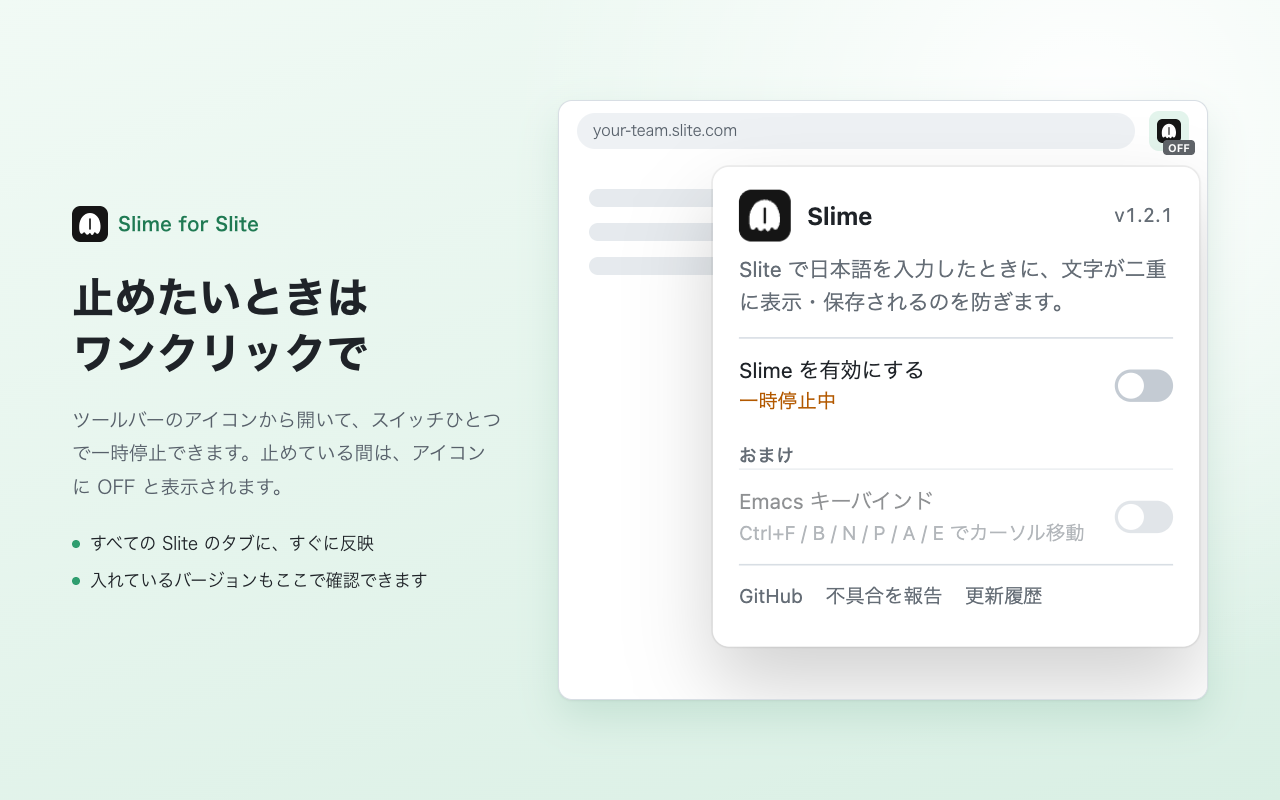
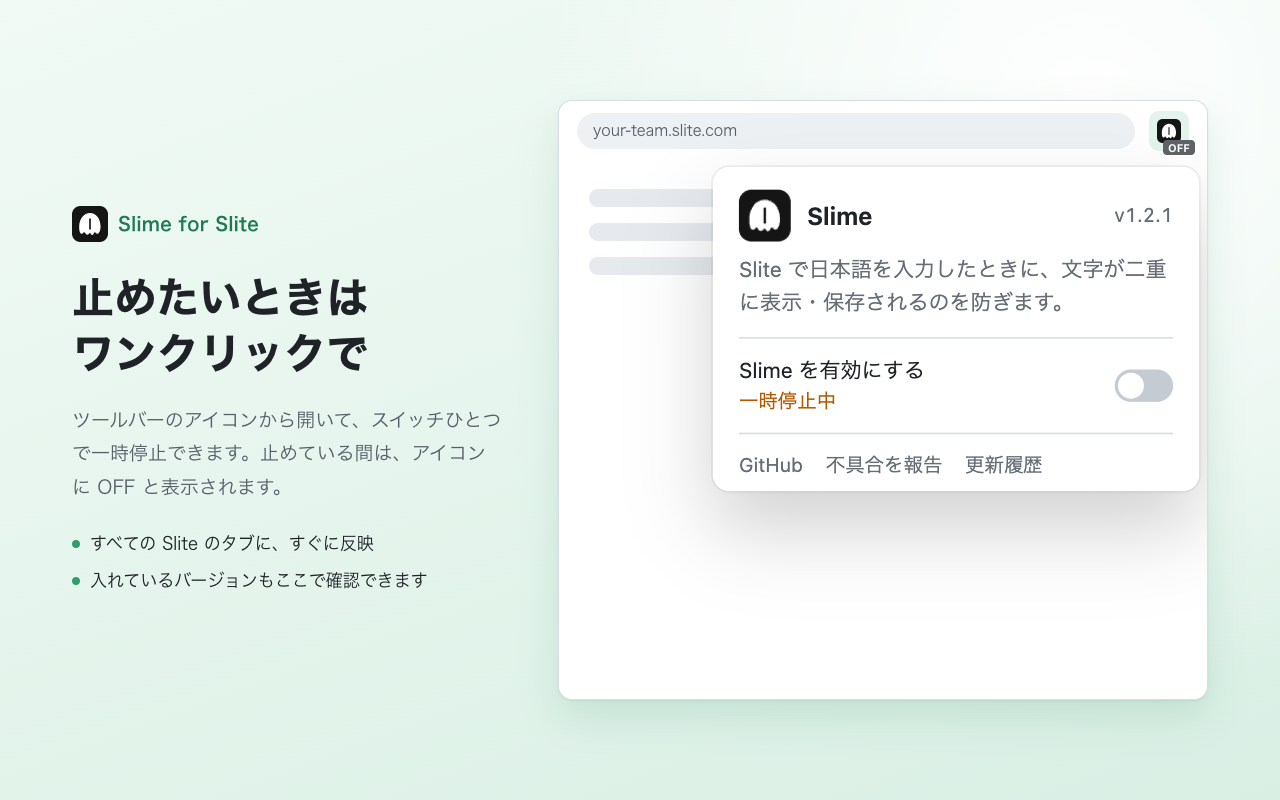
docs(store): point the listing at the other settings page
The listing and the Emacs screenshot told users to turn the keybindings
on in the popup, which no longer has them, and the pause screenshot
showed the popup with its おまけ section.

They now name その他の設定 and how to open it, the pause screenshot
shows the popup as it ships, and the AMO notes give the reason for the
menus permission.

Changed region(s): [[0.5625, 0.7188, 0.9375, 0.875], [0.5625, 0.5625, 0.9375, 0.6875], [0.5625, 0.7188, 0.625, 0.75]]

diff --git a/store/screenshots/emacs.html b/store/screenshots/emacs.html
@@ -57,12 +57,13 @@
     <main class="shot">
       <section>
         <div class="brand"><img src="../../icons/icon.svg" alt="" />Slime for Slite</div>
-        <h1>おまけ<br />Emacs キーバインド</h1>
+        <h1>Emacs<br />キーバインドも</h1>
         <p class="lead">
           Ctrl とアルファベットで、手をホームポジションから動かさずにカーソルを動かせます。
         </p>
         <ul class="points">
-          <li>初期設定は OFF。使う人だけ、ポップアップでオンに</li>
+          <li>初期設定は OFF。「その他の設定」でオンに</li>
+          <li>「その他の設定」は、アイコンの右クリックから</li>
           <li>効くのは Slite のタブの中だけ</li>
         </ul>
       </section>

diff --git a/store/screenshots/pause.html b/store/screenshots/pause.html
@@ -56,7 +56,7 @@
         right: 8px;
         overflow: hidden;
         width: 300px;
-        height: 296px;
+        height: 200px;
         border-radius: 10px;
         box-shadow:
           0 0 0 1px rgb(0 0 0 / 8%),
@@ -66,7 +66,7 @@
       }
       .popup iframe {
         width: 300px;
-        height: 296px;
+        height: 200px;
         border: 0;
       }
       .page {
